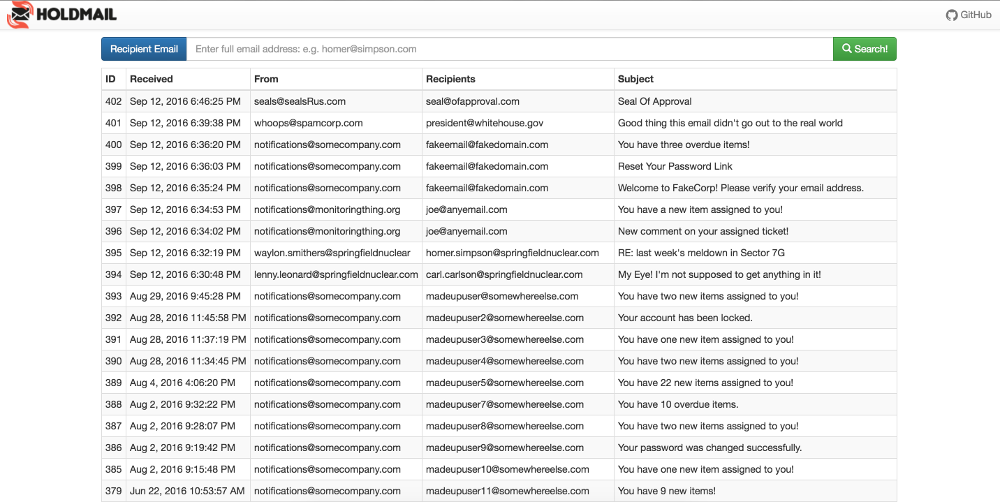
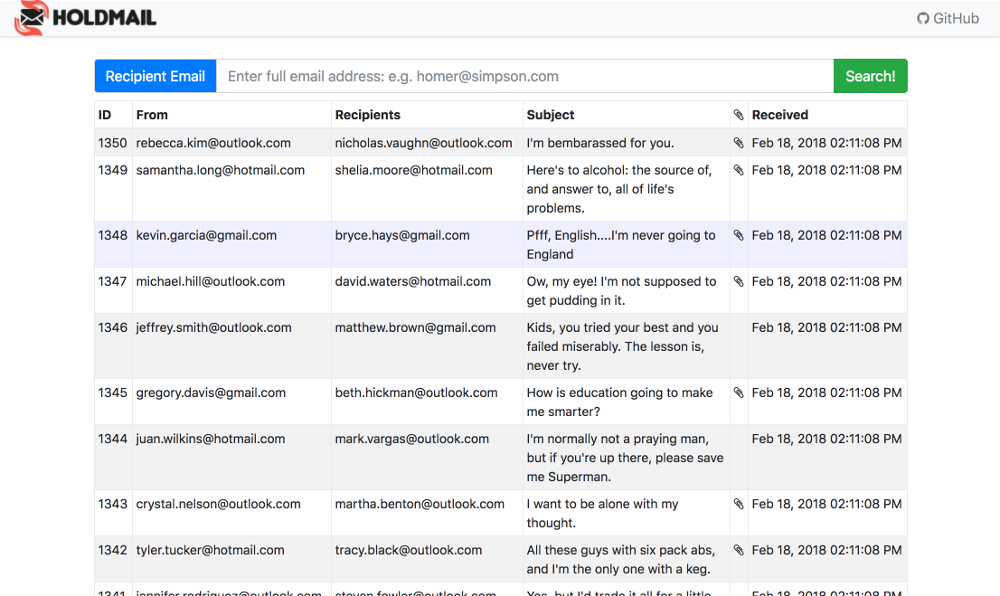
Issue #61 - 2.0 docs, + support for easily generating test data + changelogs

Changed region(s): [[0.0, 0.0, 0.93, 1.0], [0.899, 0.0, 0.992, 0.0598]]

diff --git a/docs/docutils/send-sample-emails.py b/docs/docutils/send-sample-emails.py
@@ -1,0 +1,138 @@
+#!/usr/bin/env python
+# coding=utf-8
+
+################################################################################
+# Copyright 2018 Sparta Systems, Inc
+#
+# Licensed under the Apache License, Version 2.0 (the "License");
+# you may not use this file except in compliance with the License.
+# You may obtain a copy of the License at
+#
+# http://www.apache.org/licenses/LICENSE-2.0
+#
+# Unless required by applicable law or agreed to in writing, software
+# distributed under the License is distributed on an "AS IS" BASIS,
+# WITHOUT WARRANTIES OR CONDITIONS OF ANY KIND, either express or
+# implied.
+#
+# See the License for the specific language governing permissions and
+# limitations under the License.
+################################################################################
+
+# Connects to localhost:25000 and sends 100 sample emails
+
+import email
+import random
+import smtplib
+from email import encoders
+
+# external dep - pip install faker
+from faker import Faker
+
+fake = Faker('en_US')
+num_mails = 100
+
+
+def main():
+    mailer = smtplib.SMTP('localhost', 25000)
+
+    for _ in range(num_mails):
+        sender = gen_user()
+        recip = gen_user()
+        subject = gen_subject()
+        send_mail(mailer, sender, recip, subject, random.random() < 0.4)
+
+    mailer.close()
+
+
+def gen_user():
+    domains = ['gmail.com', 'hotmail.com', 'outlook.com']
+
+    return '{0}.{1}@{2}'.format(fake.first_name().lower().replace(" ", "."),
+                                fake.last_name().lower().replace(" ", "."),
+                                random.choice(domains))
+
+
+def send_mail(mailer, msg_from, msg_to, subject, with_attach):
+    msg = email.MIMEMultipart.MIMEMultipart()
+
+    body_text = email.MIMEText.MIMEText("""
+    This is a plain text message.  But the HTML message is way better!
+    """)
+
+    body_html = email.MIMEText.MIMEText("""
+    This is a <b>HTML</b> <i>format</i> email - With inline attachments!
+    <br>
+    <img src="cid:1234">
+    <br>
+    """, 'html')
+
+    img_inline = email.MIMEBase.MIMEBase('image', 'png')
+    img_inline.set_payload(open('sample-attachment.png').read())
+    img_inline.add_header('Content-ID', '<{}>'.format('1234'))
+    img_inline.add_header('Content-Disposition', 'inline', filename='sample-attachment.png')
+    encoders.encode_base64(img_inline)
+
+    if with_attach:
+        img_attach = email.MIMEBase.MIMEBase('image', 'png')
+        img_attach.set_payload(open('../images/holdmail-header.png').read())
+        img_attach.add_header('Content-Disposition', 'attachment', filename='holdmail-header-attach.png')
+        encoders.encode_base64(img_attach)
+        msg.attach(img_attach)
+
+    msg.attach(body_text)
+    msg.attach(body_html)
+    msg.attach(img_inline)
+
+    msg.add_header('From', msg_from)
+    msg.add_header('To', msg_to)
+    msg.add_header('Subject', subject)
+
+    print("Sent mail {0} -> {1}: {2}".format(msg_from, msg_to, subject))
+    mailer.sendmail(msg_from, [msg_to], msg.as_string())
+
+
+def gen_subject():
+    subjects = ["This is my sandbox, I'm not allowed to go in the deep end. ",
+                "I'm bembarassed for you.",
+                "It tastes like... burning",
+                "Go out on a Tuesday? Who am I, Charlie Sheen?",
+                "Ow, my eye! I'm not supposed to get pudding in it.",
+                "Bake him away, toys.",
+                "Oh boy, dinnertime. The perfect break between work and drunk!",
+                "Inflammable means flammable? What a country.",
+                "My eyes! The goggles do nothing!",
+                "Priceless like a mother's love, or the good kind of priceless?",
+                "Shoplifting is a victimless crime. Like punching someone in the dark",
+                "Yes, but I'd trade it all for a little more",
+                "Pfff, English....I'm never going to England",
+                "Trying is the first step towards failure.",
+                "Facts are meaningless; you can use facts to prove anything that's remotely true!",
+                "Here's to alcohol: the source of, and answer to, all of life's problems.",
+                "What's the point of having children if you can't buy their love?",
+                "I'm gonna party like its on sale for $19.99!",
+                "I thought I had an appetite for destruction, but all I wanted was a club sandwich.",
+                "Dear Mr. President, there are too many states nowadays. Please eliminate three. I am not a crackpot.",
+                "Me fail English?  That's unpossible!",
+                "Marge, you can't keep blaming yourself; just blame yourself once, then move on.",
+                "Kids, you tried your best and you failed miserably. The lesson is, never try.",
+                "If The Flintstones has taught us anything, it's that pelicans can be used to mix cement.",
+                "Just because I don't care doesn't mean I don't understand.",
+                "Weaseling out of things is important to learn; it's what separates us from the animals... except the weasel.",
+                "Stupidity got us into this mess, and stupidity will get us out.",
+                "I want to be alone with my thought.",
+                "Fame was like a drug, but what was even more like a drug were the drugs.",
+                "If God didn't want us to eat animals, then why'd he make them so tasty?",
+                "All these guys with six pack abs, and I'm the only one with a keg.",
+                "Even communism works... in theory.",
+                "Good things don't end in 'eum,' they end in 'mania' or 'teria'.",
+                "If he's so smart, how come he's dead?",
+                "Getting out of jury duty is easy. The trick is to say you're prejudiced against all races.",
+                "I'm normally not a praying man, but if you're up there, please save me Superman.",
+                "How is education going to make me smarter?"]
+
+    return random.choice(subjects)
+
+
+if __name__ == "__main__":
+    main()

diff --git a/README.md b/README.md
@@ -4,17 +4,18 @@
 
 [![Build Status](https://travis-ci.org/SpartaSystems/holdmail.svg?branch=master)](https://travis-ci.org/SpartaSystems/holdmail) &nbsp; [![Download](https://api.bintray.com/packages/spartasystems/HoldMail/holdmail/images/download.svg) ](https://bintray.com/spartasystems/HoldMail/holdmail/_latestVersion)
 
-## Release 2.0 Is Out!
+## Release 2.0 Available!
 
 The latest release of holdmail brings several improvements:
 
 * Support for attachments
 * Multilingual support
-* A new UI (We're now using VueJS as the UI framework)
+* A new UI (We're now using [Vue.js](https://vuejs.org/) as the UI framework)
 * Direct linking to emails in the UI
 * Many miscellaneous bugfixes
 
-For a full list of changes, [see the CHANGELOG](CHANGELOG.md). 
+For the list of issues included in this release, [see the CHANGELOG](CHANGELOG.md). 
+
 
 ## What is Holdmail?
 
@@ -27,13 +28,13 @@ Instead of spamming real users (or worse - customers) while you test your applic
 
 ### Screenshots
 
-[![Mail List](docs/images/screenshots/mail-list-small.png)](docs/images/screenshots/mail-list.png)
-_Mail List_
+#### Mail List
+![Mail List](docs/images/screenshots/mail-list.png?raw=true "Mail List")
 
-[![Mail Preview](docs/images/screenshots/html-preview-small.png)](docs/images/screenshots/html-preview.png)
-_HTML Content Preview_
+#### Mail Preview
+![Mail List](docs/images/screenshots/mail-preview.png?raw=true "Mail Preview")
 
-## Run It
+## Installation
 
 If you just want to try it out, grab and install the RPM from the 'rpm' folder here:  [![Download](https://api.bintray.com/packages/spartasystems/HoldMail/holdmail/images/download.svg) ](https://bintray.com/spartasystems/HoldMail/holdmail/_latestVersion)  
 
@@ -51,6 +52,13 @@ It's now ready to use!  Without any configuration, HoldMail does the following:
 * Similarly, the REST API will be available at [http://localhost:8080/rest/messages](http://localhost:8080/rest/messages)
 * A [H2](http://www.h2database.com/) embedded database will be created in holdmail's home directory (/opt/holdmail).
 
+## Upgrading
+
+Running a new distibution of holdmail will automatically apply any needed changes to the attached database. 
+
+:heavy_exclamation_mark: It's still always a good idea to **make a backup** first!  If you just ran holdmail without configuring anything, that's going to be the H2 database file at ``$HOME/holdmail.mv.db``. 
+
+
 ### REST API
 
 | Endpoint&nbsp;Description | Method | URI | Request/Response |
@@ -61,9 +69,10 @@ It's now ready to use!  Without any configuration, HoldMail does the following:
 | Get message text body | GET | **/rest/messages/{id}/text** | **Response**: 200, text/plain: the text body if one was present, 404 otherwise. |
 | Get message HTML body | GET | **/rest/messages/{id}/html** | **Response**: 200, text/html: the HTML body if one was present, HTTP 404 otherwise. Any embedded content in the HTML will be replaced with a URI to the 'embedded content' endpoint (next)  |
 | Get embedded content | GET | **/rest/messages/{id}/content/{cid}** |  **Response**: 200, The embedded content with identifier 'cid' will be served with its related content type |
+| Get attachment (new in 2.0) | GET | **/rest/messages/{id}/att/{att_id}** | **Response**: 200 with the headers and content associated with the referenced attachment ID (the attachment ID is found in the ``attachments[]`` array in the **/rest/messages/{id}** response. |
 | Forward message | POST | **/rest/messages/{id}/forward** | **Request**: application/json: The recipient email, in the format: <code>{"recipient":"herp@derp.com"}</code>. <br/><br/>**Response**: 202 on acceptance. |
 
-## Configure It
+## Configuration
 
 If using the RPM deployment, HoldMail will look for an optional file called <code>/etc/holdmail.properties</code> which it will use to override its default configuration.  
 
@@ -130,7 +139,7 @@ To release forwarded mails from HoldMail to the real world, you'll need to confi
 
 ## Run It From Source
 
-HoldMail's backend is a [Spring Boot](http://projects.spring.io/spring-boot) application, exposing a REST API and SMTP server.  The UI is built with [Vue](https://vuejs.org/). 
+HoldMail's backend is a [Spring Boot](http://projects.spring.io/spring-boot) application, exposing a REST API and SMTP server.  The UI is built with [Vue.js](https://vuejs.org/). 
 
 ### You'll Need:
 

diff --git a/RELEASE.md b/RELEASE.md
@@ -11,3 +11,13 @@ There are some prerequisites to releasing the application that need to happen.
 ## Executing a Release
 
 Releases are executed via a release plugin in gradle, `./gradlew clean release`.  Once that's done, using your configured bintray account the release will be available there, and the repository tagged.
+
+## Updating Documentation
+
+- Update the README.md with the news of the new release!
+- Use [generate-changelog.sh](docs/docutils/generate-changelog.sh) to generate a new CHANGELOG.md
+    - Tip: Mark any junk issues you wish to exclude as 'invalid'
+- Use [](docs/docutils/send-sample-emails.py) to generate fake email data
+    - Useful for making new screenshots
+
+    

diff --git a/CHANGELOG.md b/CHANGELOG.md
@@ -30,7 +30,6 @@
 - Add ability to delete emails via the REST api [\#54](https://github.com/SpartaSystems/holdmail/issues/54)
 - Address Security Issue For "ejs" NPM module [\#49](https://github.com/SpartaSystems/holdmail/issues/49)
 - Publish CONTRIBUTING guide to repository [\#16](https://github.com/SpartaSystems/holdmail/issues/16)
-- ----- [\#7](https://github.com/SpartaSystems/holdmail/issues/7)
 
 
 
